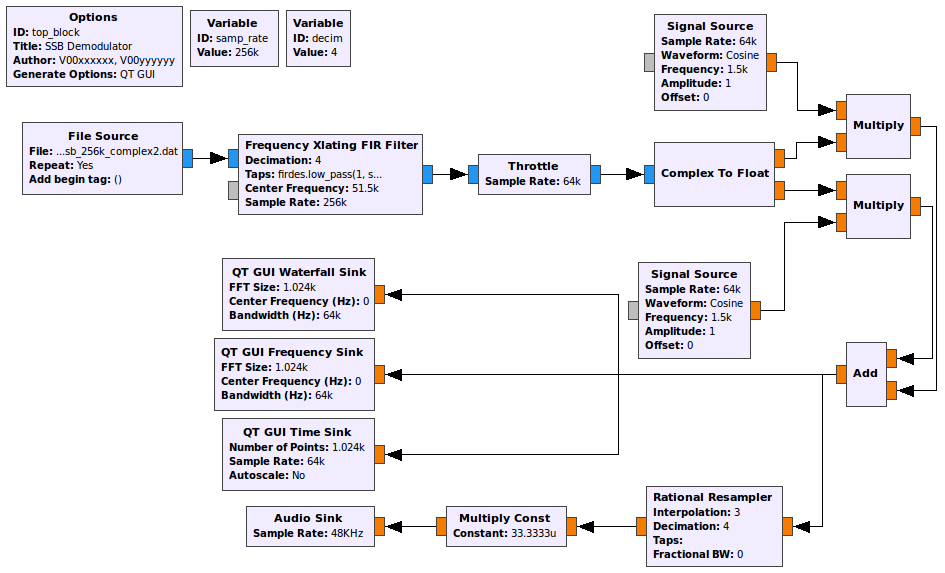
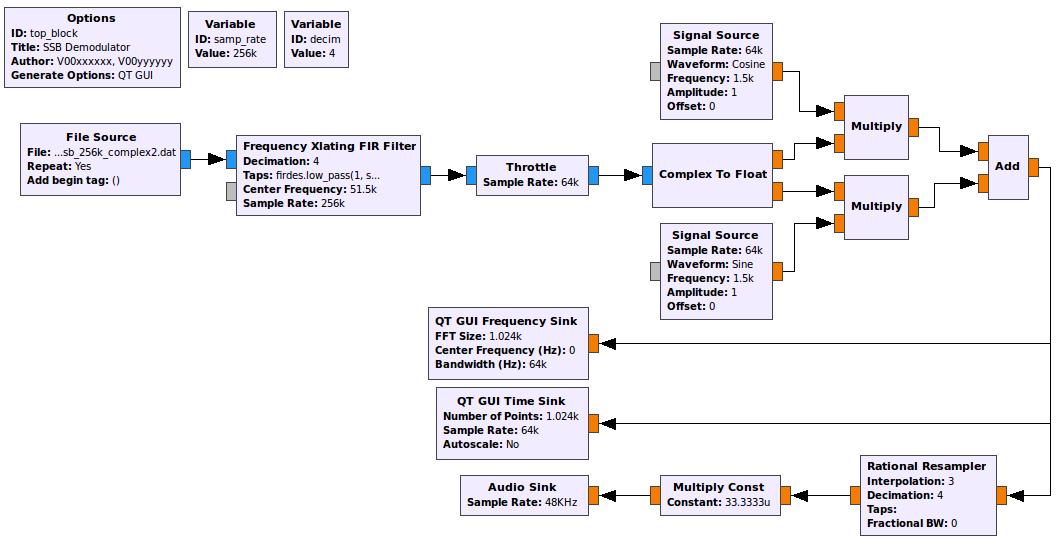
Lab 2 Part 1 complete

Changed region(s): [[0.0, 0.0, 1.0, 1.0], [0.0, 0.0, 0.3683, 0.1543]]

diff --git a/_lab2/part1.md b/_lab2/part1.md
@@ -5,7 +5,7 @@ permalink: /lab2/SSB-receiver
 firstHeading: Part 1 - Complex signals and receiving SSB waveforms
 ---
 
-[**Back to Lab 2 Intro**](introduction.md) | [**Begin Part 2**](part2.md)
+[**Back to Lab 2 Intro**](introduction.md) | [**Begin Part 2**](part1.md)
 
 ## Objectives
 
@@ -20,7 +20,7 @@ This tutorial is a guide to receiving SSB signals. It will also illustrate some 
 ## Part 1 Deliverables
 <!-- #TODO -->
 
-- GRC files of AM transmitter and waveform builder. You will be stepped through building them.
+- Two GRC files of SSB demodulators. You will be stepped through building them.
 - There are 2 questions spaced throughout this part. They are clearly indicated.
   - Each question requires approximately 1 line of writing, and address concepts, not details. Answer the questions and submit a single page containing the answers to your TA at the end of the lab.
 
@@ -73,27 +73,40 @@ Why does the Hilbert transform of a square wave look this way?
   ![part1_square-wave-normal-scope.png](./figures/part1_square-wave-normal-scope.png)<br>
   __*Complex square wave in time domain.*__
 
-- You can discard this flowgraph, it is **not** for submission.
+- [Section 2.3.6 of the textbook](../_docs/pdriessen_textbook.pdf) shows how to use the Hilbert transform to demodulate SSB signals.
+
+- You can discard this flowgraph, it is not for submission.
 
 ### Complex multiplication
 
-<!-- #TODO add math? -->
 - Create the a new flow graph as shown below. Make sure that all of the blocks are of type *Float*. This flow graph takes two sinusoids, at frequencies of 1 kHz and 10 kHz and multiplies them together. Using a trigonometric identity we know that the product of two cosines gives two cosines at the sum and difference frequencies of the original signals. In this case we expect outputs at 9 kHz (difference) and 11 kHz (sum).
 
   ![part1_multiply-two-cos.png](./figures/part1_multiply-two-cos.png)<br>
-  __*Figure 2.4: Flow graph with two multiplied sinusoidal inputs.*__
+  __*Flow graph with two multiplied sinusoidal inputs.*__
 
 - Execute the flow graph and confirm this result. Note that the FFT plot shows both the positive and negative frequencies. We know that for real inputs the negative frequency components are the same as positive frequency components. Hover your mouse over the peaks to see that the frequencies are as expected (9 kHz and 11 kHz).
 
 - Change ALL of the blocks to Type: *Complex* and execute the flow graph again. You should now observe a single output at 11 kHz. This is the original 10 kHz signal shifted by the 1 kHz signal. If we want to shift in the negative direction a frequency of -1000 can be used. Try this. From this example we see two of the primary advantages of using analytic signals. A signal can be shifted (sum) without creating an additional difference signal. Also, note that there are NO negative frequency components. **Why is this?**
 
+- Remember what a complex signal looks like in the time domain, you will need to know this later in the lab.
+
 - You can discard this flowgraph, it is not a deliverable.
 
-## Single Sideband (SSB) Signal demodulator
+## Single Sideband (SSB) Signal Weaver demodulator
 
-In this section you will learn one technique for demodulating Single Sideband Signals. [This data file](data/ssb_lsb_256k_complex2.dat) will be used.
+In this section you will learn one technique for demodulating Single Sideband Signals. Section 2.3.7 of [the textbook](../_docs/pdriessen_textbook.pdf) shows the following images as illustrations of this technique. Familiarize yourself with them and their mathematical descriptions, you're going to build them!
 
-This data file was recorded by a USRP set to a center frequency of
+  ![part1_weaver-real-block-diagram.png](./figures/part1_weaver-real-block-diagram.png)<br>
+  __*Block diagram for a real Weaver demodulator*__
+
+  ![part1_weaver-complex-block-diagram.png](./figures/part1_weaver-complex-block-diagram.png)<br>
+  __*Block diagram for a complex Weaver demodulator*__
+
+### Streaming the complex baseband data
+
+- Download [this data file](data/ssb_lsb_256k_complex2.dat).
+
+  - This data file was recorded by a USRP set to a center frequency of
 50.3 MHz with a sample rate of 256 kHz.
 
 - Create a new flow graph as shown below.
@@ -114,7 +127,6 @@ This data file was recorded by a USRP set to a center frequency of
 - When this signal was recorded, the USRP was set to a frequency of 50.3 MHz. Thus, the 0 kHz point on the display corresponds to 50.3 MHz.
   - While the FFT Plot is displayed move the cursor over the signal and note the frequency along its right edge. It should be approximately 53 kHz. Since this is a lower sideband (LSB) signal, this corresponds to the carrier frequency. Because the "zero" frequency corresponds to 50.3 MHz, the original carrier frequency of signal was 50.3 MHz + 53 kHz = 50.353 MHz. However, now that the spectrum has been shifted down by 50.3 MHz, we use the carrier frequency of 53 kHz.
   - The bandwidth of this LSB signal is 3 kHz.
-  <!-- - #TODO are they always? -->
 
 ### Frequency Translating Filter
 
@@ -144,12 +156,15 @@ The first step in building a receiver is to use a channel filter to pass the sig
 
 - Execute the flow graph. You will see that your signal has now moved down to the origin and is the only signal present.
 
+- Add a *Variable* block with:
+  - ID: *decim*
+  - Value: 4
+
 - Now that we have located the signal of interest, there is no reason that we need to be concerned with so much of the adjacent spectrum. We can reduce the range of frequencies that are being processed by reducing the sample rate (decimation).
   - Re-open the *Frequency Xlating FIR Filter* block
-    - Change the *Decimation* parameter to 4
-    - Change the taps to `firdes.low_pass(1,samp_rate/4, 2000,100)`
-    <!-- - #TODO should it just be samp_rate -->
-  - This will reduce the sample rate to **256000/4 = 64000 Hz**. Change the sample rate of the *Throttle* and *QT GUI Frequency Sink* to this new rate. **What frequency range to you expect the FFT to display now?**
+    - Change the *Decimation* parameter to `decim`
+    - Change the taps to `firdes.low_pass(1,samp_rate/decim, 2000,100)`
+  - This will reduce the sample rate to **256000/4 = 64000 Hz**. Change the sample rate of the *Throttle* and *QT GUI Frequency Sink* to this new rate, using the `decim` variable. **What frequency range to you expect the FFT to display now?**
 
 - Execute the flow graph again to see if you are correct. You should now observe an expanded version of your signal. Select *Autoscale* on the frequency plot so that the peaks of the signal are observed. Notice that after a while, the signal level will be reduced for a few seconds. That occurs when the station stops transmitting.
 
@@ -172,9 +187,10 @@ This module is used for generating finite impulse response (FIR) filters in GNU 
 
 This list indicates the minimum number of arguments required for the filter to be generated. Each filter can also take an argument for the **type of window** it uses and the **beta value**. Additionally, each of these filter types has a "_2" version (ie: `band_pass_2`, `low_pass_2`). These versions take an extra parameter which specifies the stop band attenuation in dB. It is worthwhile to familiarize yourself with the usage of this module as it will be used again in these labs.
 
-### Weaver demodulator
+### Frequency multiplication
 
 Recall that the signal is a complex (analytic) signal. One method of demodulating SSB voice is to operate on the real and imaginary parts of the signal separately. The [Complex to Float](https://wiki.gnuradio.org/index.php/Complex_To_Float) block will take a complex signal and output its real and imaginary parts as two separate float streams.
+
 > Note: If you hover your mouse over the output ports of any blocks, they display the label for that data stream. In the case of a *Complex to Float* block, it will display which is real and which is imaginary.
 
 - Modify the flow graph to appear as shown below. The outputs of the *Complex to Float* block are both real so the *QT GUI Frequency Sinks* need to be changed to Type: *Float*. Remember to change the sampling rate of the second sink to match the first.
@@ -196,15 +212,16 @@ Recall that the signal is a complex (analytic) signal. One method of demodulatin
 - Observe the output of the *Add* block using a *QT GUI Frequency sink*. This is the baseband signal that has been extracted from the modulated SSB signal.
 
 - The final step is to listen to the demodulated signal. Add an *Audio Sink* to the output float stream.
-  - Recall that you will need to adjust the sampling rate to one that works with the *Audio Sink*. At this point in the flowgraph, your sampling rate is still **`samp_rate/4` = 64000 Hz**. Use the *Rational Resampler* block to make the sampling rate at the audio sink **48 000 Hz**.
+
+  - Recall that you will need to adjust the sampling rate to one that works with the *Audio Sink*. At this point in the flowgraph, your sampling rate is still **`samp_rate/decim` = 64000 Hz**. Use the *Rational Resampler* block to make the sampling rate at the audio sink **48 000 Hz**.
     - In the Rational Resampler block, set the Type to *Float->Float (Real Taps)*.
 
 - You will also need a multiplier to reduce the amplitude of the signal before it enters the *Audio Sink*.
+
   - Find a suitable value by first observing the maximum peak on a *QT GUI Time Sink* and using the reciprocal of this value as the multiplier.
   - Use a *Multiply Const* block with this value between the *Rational Resampler* and the *Audio Sink* blocks.
 
 - Test your SSB receiver; you should hear the voice.
-  >Note: It may be helpful to add a *QT GUI Waterfall Sink* to aid in locating the signal of interest.
 
 - At this point your functioning flowgraph should look like the following figure.
 
@@ -217,45 +234,101 @@ Recall that the signal is a complex (analytic) signal. One method of demodulatin
 
 The Weaver demodulator can also be implemented entirely with complex signals.
 
-- Make a copy of `SSB_demodulator.grc` and name it `SSB_complex_demodulator.grc`. You can do this by going ***File -> Duplicate*** in GRC.
+- Make a copy of `SSB_demodulator.grc` and name it `SSB_complex_demodulator.grc`. You can do this by going ***File -> Duplicate*** then ***File -> Save*** in GRC.
   - In the *Options* block change the title to be "SSB Complex Demodulator".
   - This file will be your second deliverable.
 
 - Edit this SSB receiver to use only complex signals, with a *Complex To Real* block just before the audio sink.
 
   - There will now only be a single complex *Signal Source* block multiplied with the output of the *Throttle* block
-    - Remembering that the float multiplication resulted in both a positive and a negative frequency component, in the previous demodulator the audio was read from the negative portion. The now complex multiplication only results in a single frequency component. Change the frequency of this cosine to be -1500 Hz.
+    - Remembering that the float multiplication resulted in both a positive and a negative frequency component. Complex multiplication only results in a single frequency component. Change the frequency of this cosine to be -1500 Hz.
   - No *Add* block is needed.
   - Change the *Rational Resampler* block Type to *Complex->Complex (Complex Taps)*
 
-- Test this receiver and confirm that it works in the same way as the receiver using real signals. It should look like the following figure and sound slightly better than the float version.
+- Test this receiver and confirm that it works in the same way as the receiver using real signals. It should look like the following figure.
 
   ![part1_ssb-complex-flowgraph.png](./figures/part1_ssb-complex-flowgraph.png)<br>
   __*SSB complex flowgraph*__
 
-- Change the File Source block to a *Wav File Source*
-- Test this receiver using [this data file](./data/SDRSharp_20130920_024052Z_14190kHz_IQ.wav). This is a WAV file! To read it in GNURadio:
-  - Add a *Wav File Source* and modify its properties as shown below.
-  - This WAV file was recorded using the I and Q streams for the L and R channels. By setting the block to have two output channels you will be able to use the full I/Q signal.
-  - Add a [Float To Complex](http://www.ece.uvic.ca/~ece350/grc_doc/ar01s11s10.html) block to convert from I and Q to a complex signal.
+Remember that taking the real part of the complex signal is the same thing as adding the negative frequencies! To illustrate this, add two *QT GUI Frequency Sinks*, one before and one after the *Complex To Real* block. Title them appropriately ("Complex" and "Real") and execute the flowgraph. It should look like the following image.
 
-  ![Figure 2.11](./figures/wav_file_properties.png)<br>
-  __*Figure 2.11: WAV File Source properties dialog.*__
-
-- There are two SSB voice signals in this file, both are upper sideband (USB), whereas the first data file was lower sideband (LSB). The Weaver demodulator needs a small modification to work with USB.
-  > Hint: Refer to the diagram above illustrating the Weaver Demodulator and now consider using the upper sideband.
-
-- A data file taken using a software receiver with a wire antenna about 6 meters above the ground is found [here](./data/SDRSharp_20130919_004154Z_14053kHz_IQ.wav).
-  - Change the Wav File Source to read this file, and test your receiver using this file.
-  - The file contains mostly Morse code signals, no voice signals. Replace the fixed offset of 1500 Hz with a variable and control it with a WX GUI Slider. **What happens when the slider is moved and why?**
-  - Replace the fixed bandwidth of the firdes module with a variable and control it with a Slider. For receiving Morse code signals, a bandwidth of 50-200 Hz is best.
-
-Save this flowgraph. You can modify it for use with the RTL-SDR receiver
-and listen to live Morse code and SSB signals in the frequency range
-24.9-25.0 MHz, 27-29 MHz, 50.0-50.2 MHz. These frequencies will
-propagate over long distances via the ionosphere for some (not all) of
-the time. Other frequencies are 144.0-144.3 MHz and 145.8-146.0 MHz.
+  ![part1_real-vs-complex-spectra.png](./figures/part1_real-vs-complex-spectra.png)<br>
+  __*SSB complex vs real spectra*__
 
 ---
 
-[**Continue to Tutorial 2**](tutorial2.md)
+#### Deliverable Question 2
+
+Why does taking the *real* part of a complex signal result in frequencies being *added* to the spectrum?
+
+---
+
+- Change the *File Source* block to a *Wav File Source* block
+
+- Download [this data file](./data/SDRSharp_20130920_3500kHz_IQ.wav) and point the *Wav File Source* block at it.
+
+  - Modify the block properties as shown below.
+  
+    ![part1_wav-source-properties.png](./figures/part1_wav-source-properties.png)<br>
+    __*WAV File Source properties dialog.*__
+
+  - This WAV file was recorded using the I and Q streams for the L and R channels. By setting the block to have two output channels you will be able to use the full I/Q signal.
+  - Add a [Float To Complex](https://wiki.gnuradio.org/index.php/Float_To_Complex) block to convert from I and Q to a complex signal.
+
+    - Cross the streams from the *Wav File Source* block into the *Float To Complex* block
+  
+      ![part1_crossed-wav-output.png](./figures/part1_crossed-wav-output.png)<br>
+      __*WAV file output streams*__
+
+  - The WAV file was captured at 48 kHz so change `samp_rate` to 48 kHz
+  - No decimation is necessary anymore, so change `decim` to 1
+  - You can remove the *Rational Resampler* block after the complex *Multiply* block.
+
+- There are two SSB voice signals in this file, both are upper sideband (USB), whereas the first data file was lower sideband (LSB). The Weaver demodulator needs some small modification to work with USB.
+
+  - The complex multiply was shifting the centered LSB signal **down** by 1.5 kHz. It now needs to shift the centered USB signal **up** by 1.5 kHz. Implement this.
+    > Hint: Refer to [the diagram above](./figures/part1_weaver_demod.png) illustrating the Weaver demodulator and now consider using the upper sideband.
+  - One of the center frequencies in this file is 3500 Hz. Adjust the *Frequency Xlating FIR Filter* block to this. Also change the lowpass filter cutoff frequency to 1000 Hz.
+  - Use the *QT GUI Time Sink* block to find the maximum amplitude and adjust the volume controlling *Multiply Const* block as before.
+
+- Your flowgraph should look like the following
+
+    ![part1_ssb-wav-flowgraph.png](./figures/part1_ssb-wav-flowgraph.png)<br>
+    __*SSB demodulator for 48 kHz WAV file*__
+
+- Execute the flowgraph and listen. Add a *QT GUI Range* block to control the center frequency and try to find the other USB transmission captured in the file! 
+
+<!-- #TODO Remove at a future date or reintegrate -->
+<!-- - A data file taken using a software receiver with a wire antenna about 6 meters above the ground is found [here](./data/SDRSharp_20130919_004154Z_14053kHz_IQ.wav).
+  - Change the Wav File Source to read this file, and test your receiver using this file.
+  - The file contains mostly Morse code signals, no voice signals. Replace the fixed offset of 1500 Hz with a variable and control it with a WX GUI Slider. **What happens when the slider is moved and why?**
+  - Replace the fixed bandwidth of the firdes module with a variable and control it with a Slider. For receiving Morse code signals, a bandwidth of 50-200 Hz is best. -->
+
+<!-- Save this flowgraph. You can modify it for use with the RTL-SDR receiver
+and listen to live Morse code and SSB signals in the frequency range
+24.9-25.0 MHz, 27-29 MHz, 50.0-50.2 MHz. These frequencies will
+propagate over long distances via the ionosphere for some (not all) of
+the time. Other frequencies are 144.0-144.3 MHz and 145.8-146.0 MHz. -->
+
+<!-- #TODO add hilbert version -->
+---
+
+At this point, you should have:
+
+- two GRC files
+  - `SSB_demodulator.grc`
+  - `SSB_complex_demodulator.grc`
+
+## Deliverables
+
+From this part of the lab keep the following files to submit to your TA after the second (and final) part:
+
+- `SSB_demodulator.grc`
+- `SSB_complex_demodulator.grc`
+
+- The answers to [Question 1](#deliverable-question-1) and [Question 2](#deliverable-question-2.)
+
+**Do not attach the `top_block.py` to your submission.**
+
+---
+[**Back to Lab 2 Intro**](introduction.md) | [**Continue to Part 2**](part2.md)
